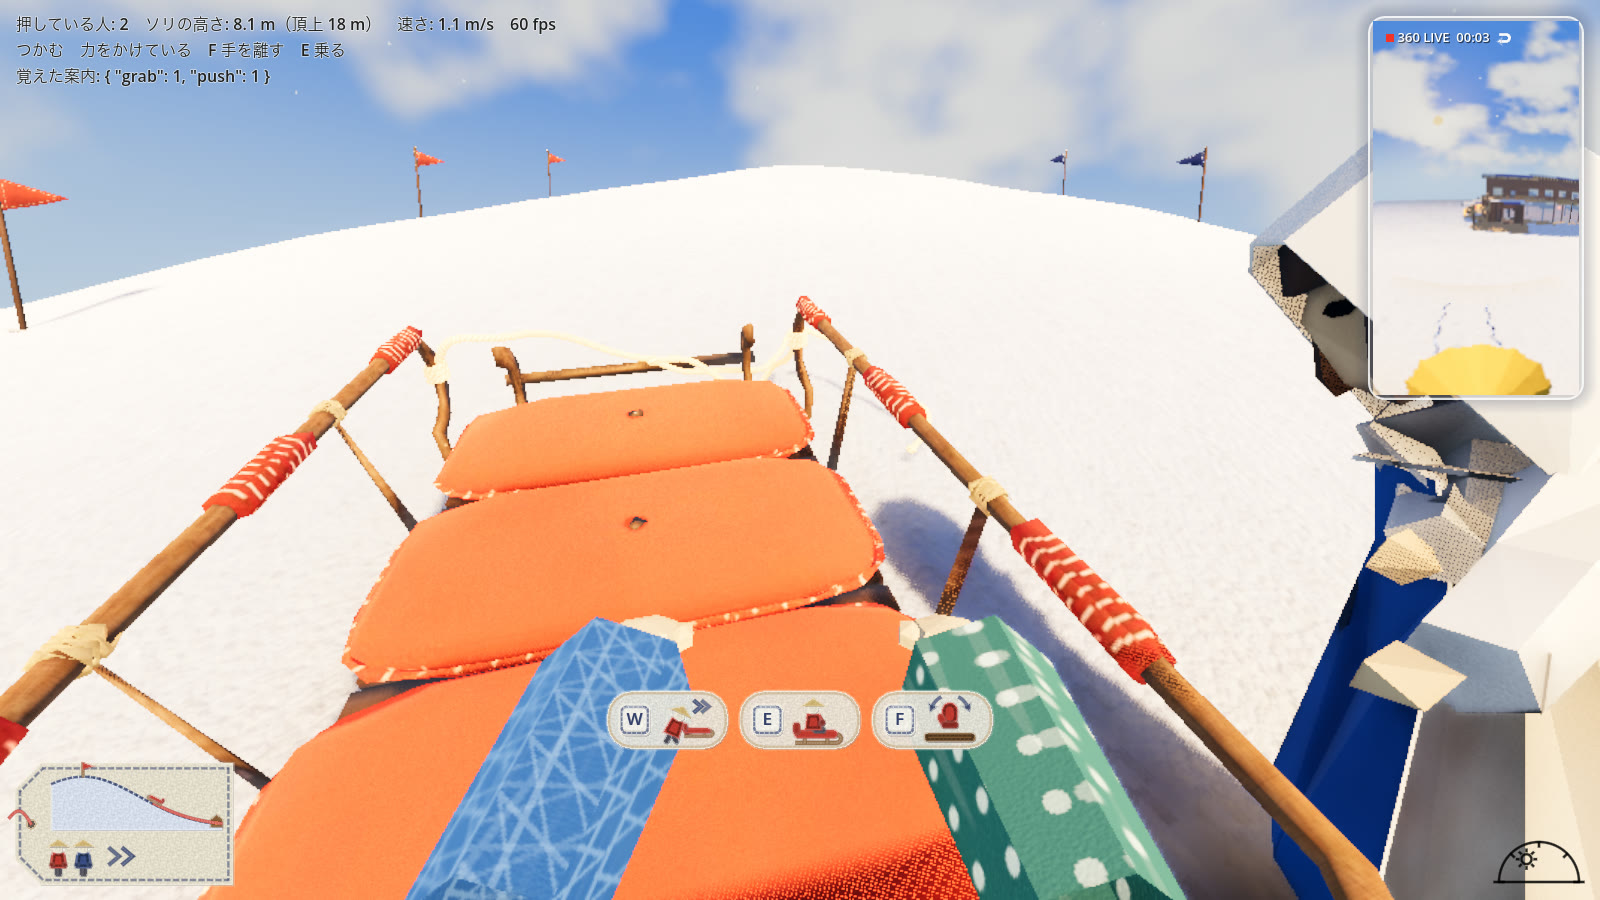
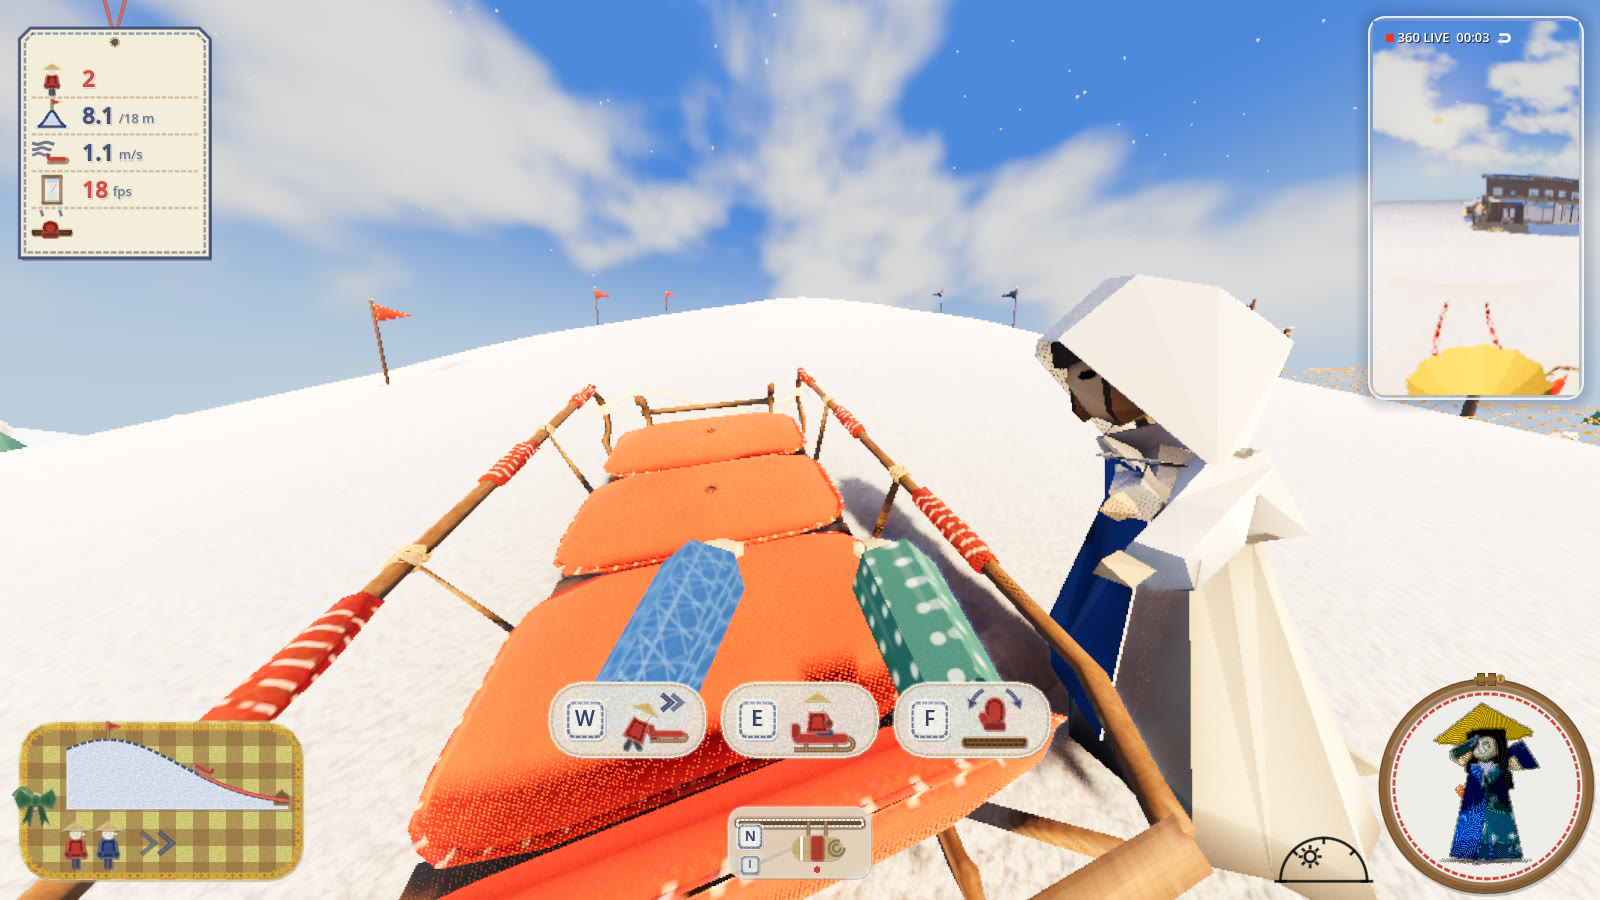
確かめ用の数字を、糸で吊るした紙の札にする
- 左上の素の文字をやめ、画面の上の縁から赤い糸で吊るした紙の札に。地は無地の生成り、外側に影と藍の縁取り
- 段ごとに絵と数字: 人の形（押している人数）、丘（ソリの高さ／頂上）、風の筋（速さ）、砂時計（fps）、いまの状態の絵
- 数字は太らせた字に生成りの縁と影を重ねた刺繍・判子の雰囲気（hud_icons.gd の stitched_text）
- 「覚えた案内」の辞書はやめ、覚えた案内の数だけ赤い玉止めを並べる
- 絵（丘・風の筋・砂時計）と吊るす札（paper_tag）を hud_icons.gd に足す。大きさは HUD の大きさの設定にそろう
- 直す前と後の絵を design/hud/ に

diff --git a/design/hud.md b/design/hud.md
@@ -69,7 +69,7 @@
 | 仲間のそば | [people.jpg](hud/people.jpg) | 下に Q 手を振る・G 声・右クリック 指さす |
 | ロッジの中 | [lodge.jpg](hud/lodge.jpg) | 札は消える。日時計と 360° 映像だけ |
 | Esc | [menu.jpg](hud/menu.jpg) | 設定の左に操作の札 |
-| 確かめ用 | [debug.jpg](hud/debug.jpg) | 左上にこれまでの文字 |
+| 確かめ用 | [debug.jpg](hud/debug.jpg) | 左上に紙の札（下の「確かめ用の札」） |
 
 ## ミシン（PR #12）とエモート（PR #13）を入れるとき
 
@@ -94,6 +94,17 @@
 | Esc（メニューも同じ倍率） | [scale-menu.jpg](hud/scale-menu.jpg) |
 
 撮り方: `$G --path game --resolution 1600x900 -s res://tools/hud_shots.gd -- --scene=ring --hud-scale=1.6 --menu-scale=1.6 --out=/tmp/a.png`（保存はしない）
+
+## 確かめ用の札（2026-10-29）
+
+代表の声「押している人数とかの情報表示も、このゲームのアートワークにのっとった表示にしたい」から、確かめ用の数字（設定の「確かめ用の数字」か `--hud-debug`）を素の文字から紙の札にした。
+
+- 左上に、画面の上の縁から赤い糸で吊るした紙の札。地は無地の生成りで、外側に影と藍の縁取り、内側に破線のステッチ（雪・空・ロッジの中でも読める）
+- 段ごとに絵と数字: 人の形と押している人数、丘とソリの高さ（/頂上）、風の筋とソリの速さ（m/s）、砂時計と fps（30 より下は赤）、いまの状態の絵（歩く・つかむ・乗る・紐）
+- 数字は太らせた字を藍の糸の色で、生成りの縁と影を重ねた刺繍・判子の雰囲気（`hud_icons.gd` の `stitched_text`）。単位は小さく
+- 「覚えた案内」の辞書はやめ、覚えた（3 回した）案内の数だけ、状態の絵の右に赤い玉止めを並べる
+- 大きさは HUD の大きさの設定にそろう。出し入れは設定のまま
+- 直す前と後（ふもと・押している・乗って滑る・ロッジの中）: [debug-before-after.jpg](hud/debug-before-after.jpg)。HUD の大きさ 160%: [debug-big.jpg](hud/debug-big.jpg)
 
 ## まだ決めていないこと
 
